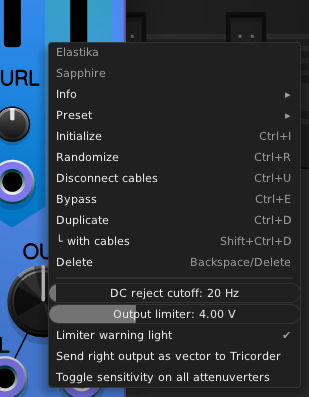
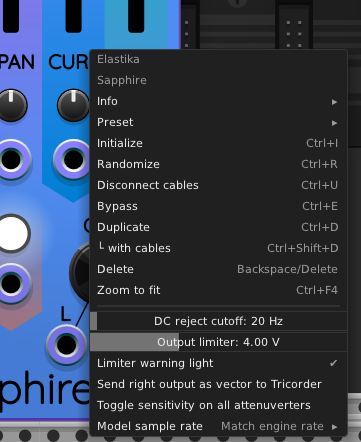
Documented Elastika changes: optimization, resampler.

diff --git a/Elastika.md b/Elastika.md
@@ -267,6 +267,33 @@ This menu item selects the right ball when checked, or the left ball when unchec
 
 See [low-sensitivity attenuverters](LowSensitivityAttenuverterKnobs.md).
 
+### Model sample rate
+
+By default, Elastika runs its physics model at the same sample rate
+as the VCV Rack engine. This is generally the most efficient way
+to run Elastika.
+
+However, it is possible to oversample or undersample Elastika by
+running its physics model at a higher or lower sample rate by
+using the context menu option "Model sample rate". This enables
+an internal resampler.
+
+Here are a few reasons you might want to enable the resampler:
+
+- If you are running the VCV Rack engine at a very high engine rate (e.g. 192 kHz),
+you may be able to reduce the CPU overhead by running Elastika at a lower rate
+(e.g. 48 kHz). However, in general, the resampler adds some CPU overhead,
+so you should use VCV Rack's CPU monitor to measure actual performance.
+You can toggle the CPU monitor using the [F3 key](https://vcvrack.com/manual/KeyCommands).
+
+- Running Elastika at different rates can affect the nature
+of the sound it produces. A patch running at 48 kHz can sound different from one
+running at 44.1 kHz. Explicitly enabling the resampler for your intended rate
+can help ensure that someone else running the same patch will hear the same thing you do,
+even if they configure VCV Rack's engine to run at a different rate.
+
+- Oversampling Elastika may produce crisper or sharper sounds in the higher frequencies.
+
 ### Power button and gate
 
 Elastika uses more CPU than the typical module in VCV Rack.

diff --git a/CHANGELOG.md b/CHANGELOG.md
@@ -9,10 +9,12 @@
 </tr>
 
 <tr valign="top">
-<td align="center">28 Dec 2024</td>
+<td align="center">5 Jan 2025</td>
 <td align="center">2.5.7</td>
 <td align="left">
     <ul>
+        <li><a href="Elastika.md">Elastika</a> uses 58% of the CPU time it did in earlier versions, thanks to a complete overhaul of its physics engine.</li>
+        <li>Elastika now provides a context menu option to run its physics model at a different sample rate from the VCV Rack engine. This feature adds extra CPU overhead when enabled, so it is disabled by default.</li>
         <li>The channel count sliders in Hiss, Pop, and Split/Add/Merge now move in a "snapped" manner instead of smoothly, to help visually emphasize their quantized nature.</li>
     </ul>
 </td>
